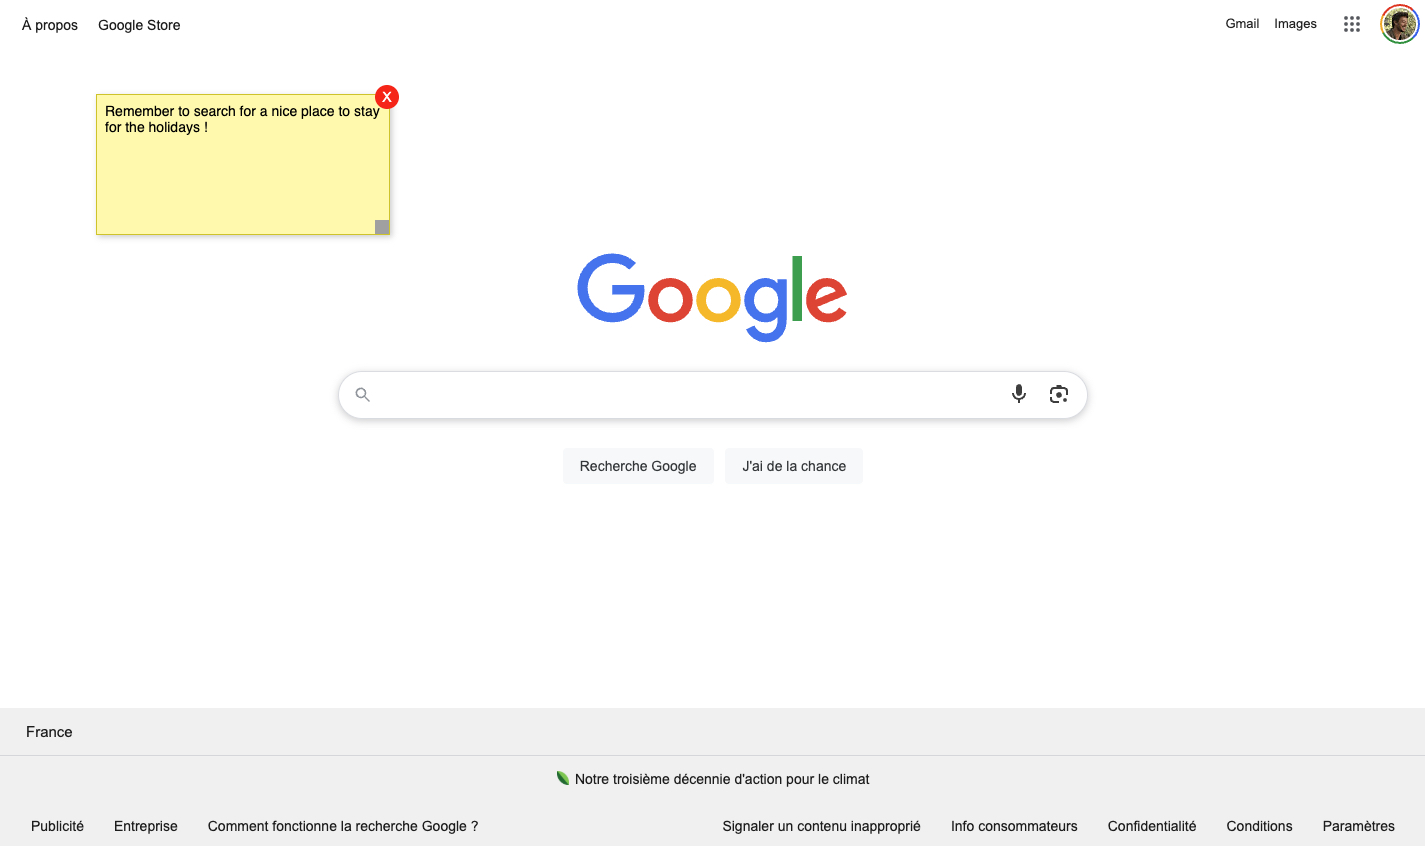
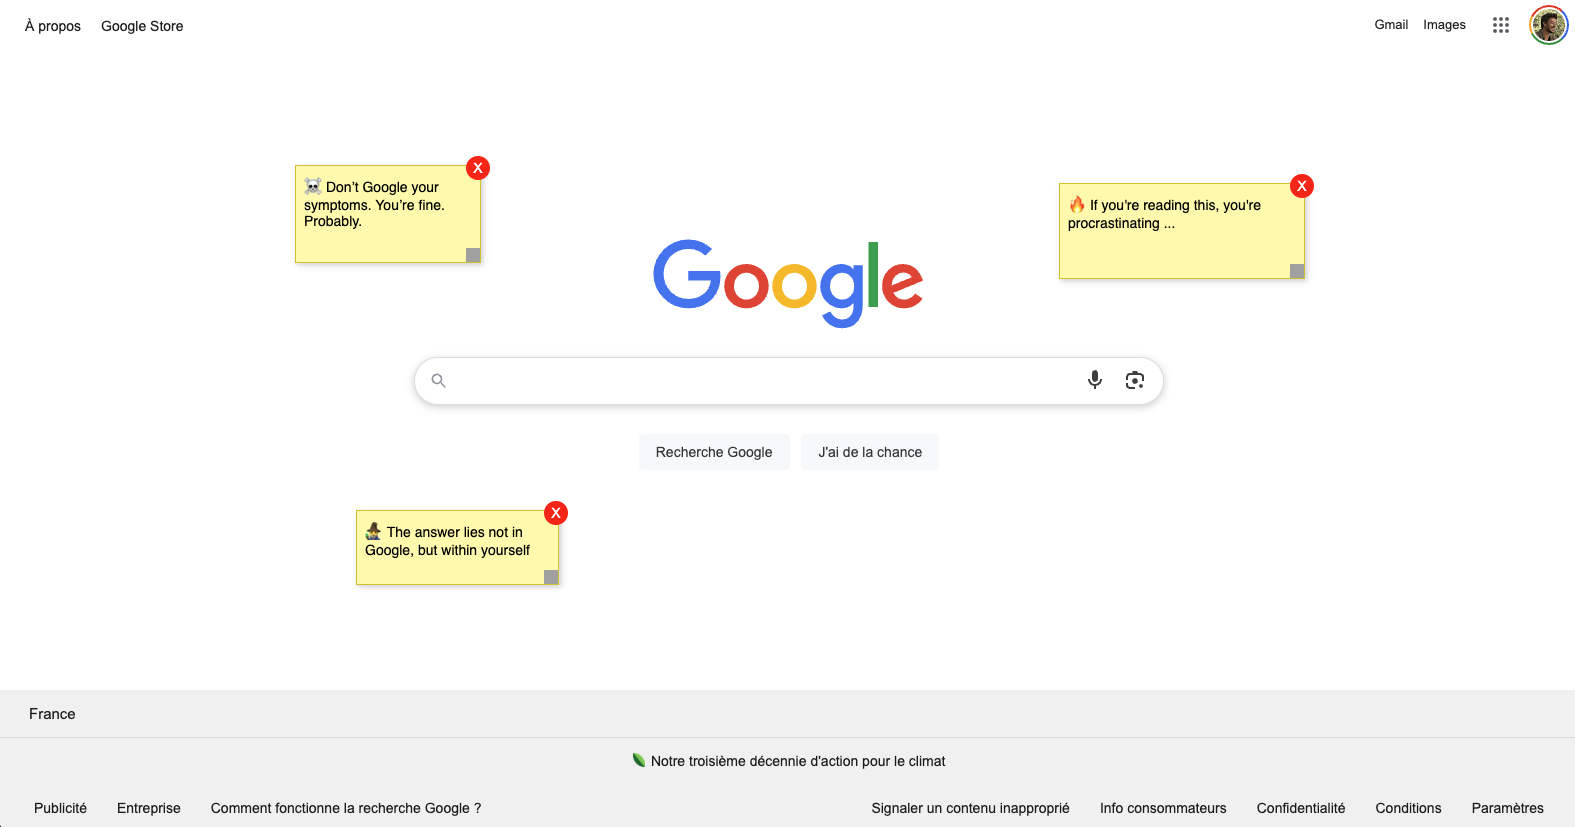
better readme and screenshot

diff --git a/README.md b/README.md
@@ -55,6 +55,42 @@ All notes are saved automatically and restored per page.
 
 ---
 
+## 🧑💻 Feel free to improve it!
+
+This project is intentionally simple and open-ended.  
+If you’re a developer and want to contribute, extend or remix this extension — **go for it!** ✨
+
+Feel free to:
+
+- Fork this repo
+- Add your own spin or improvements
+- Fix anything clunky or make it smarter
+- Translate it, restyle it, or add new features
+
+If you do something cool, **let me know** — I'd love to feature your version or merge improvements.
+
+---
+
+## 💡 Feature ideas & enhancements
+
+Here are some ideas for future updates or community contributions:
+
+- 🧠 **Per-note colors**: choose color per sticky
+- 📆 **Reminders / due dates**: be notified for time-based notes
+- 🧲 **Snap to grid** or alignment guides
+- 📥 **Export / import** notes across devices
+- 💻 **Cloud sync** across multiple Chrome profiles
+- 🔒 **Private / locked notes** with password toggle
+- ⌨ **Keyboard shortcuts** to add/edit/delete notes
+- 🗺 **Global dashboard**: view all memos from all URLs
+- 🌍 **Per-domain templates** (ex: meeting prep for Zoom, daily goals on Gmail)
+- 🖼 **Custom fonts, emojis, or images** in notes
+- 📦 **PWA version** for outside-the-browser usage
+
+> Feel free to open an issue or a PR if you want to discuss any of these!
+
+---
+
 ## 👨💻 Author
 
 **Olivier Ben**  
